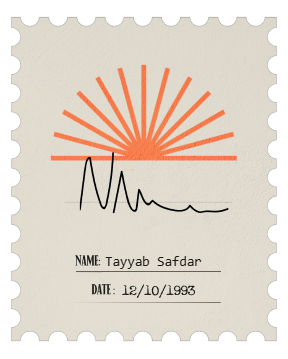
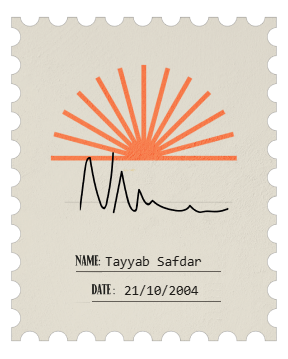
Update postage stamp graphic date to 21/10/2004

Changed region(s): [[0.3438, 0.7967, 0.7812, 0.8579]]

diff --git a/components/ArtworkVisual.tsx b/components/ArtworkVisual.tsx
@@ -310,7 +310,7 @@ export function PostageStamp() {
         {/* Typewriter Metatags */}
         <div className="w-full border-t border-ink/20 pt-2 text-center font-mono text-[9px] sm:text-[10px] tracking-wider text-ink/80 uppercase space-y-0.5">
           <p>NAME: Tayyab Safdar</p>
-          <p>DATE: 12/10/1993</p>
+          <p>DATE: 21/10/2004</p>
         </div>
       </div>
     </div>
